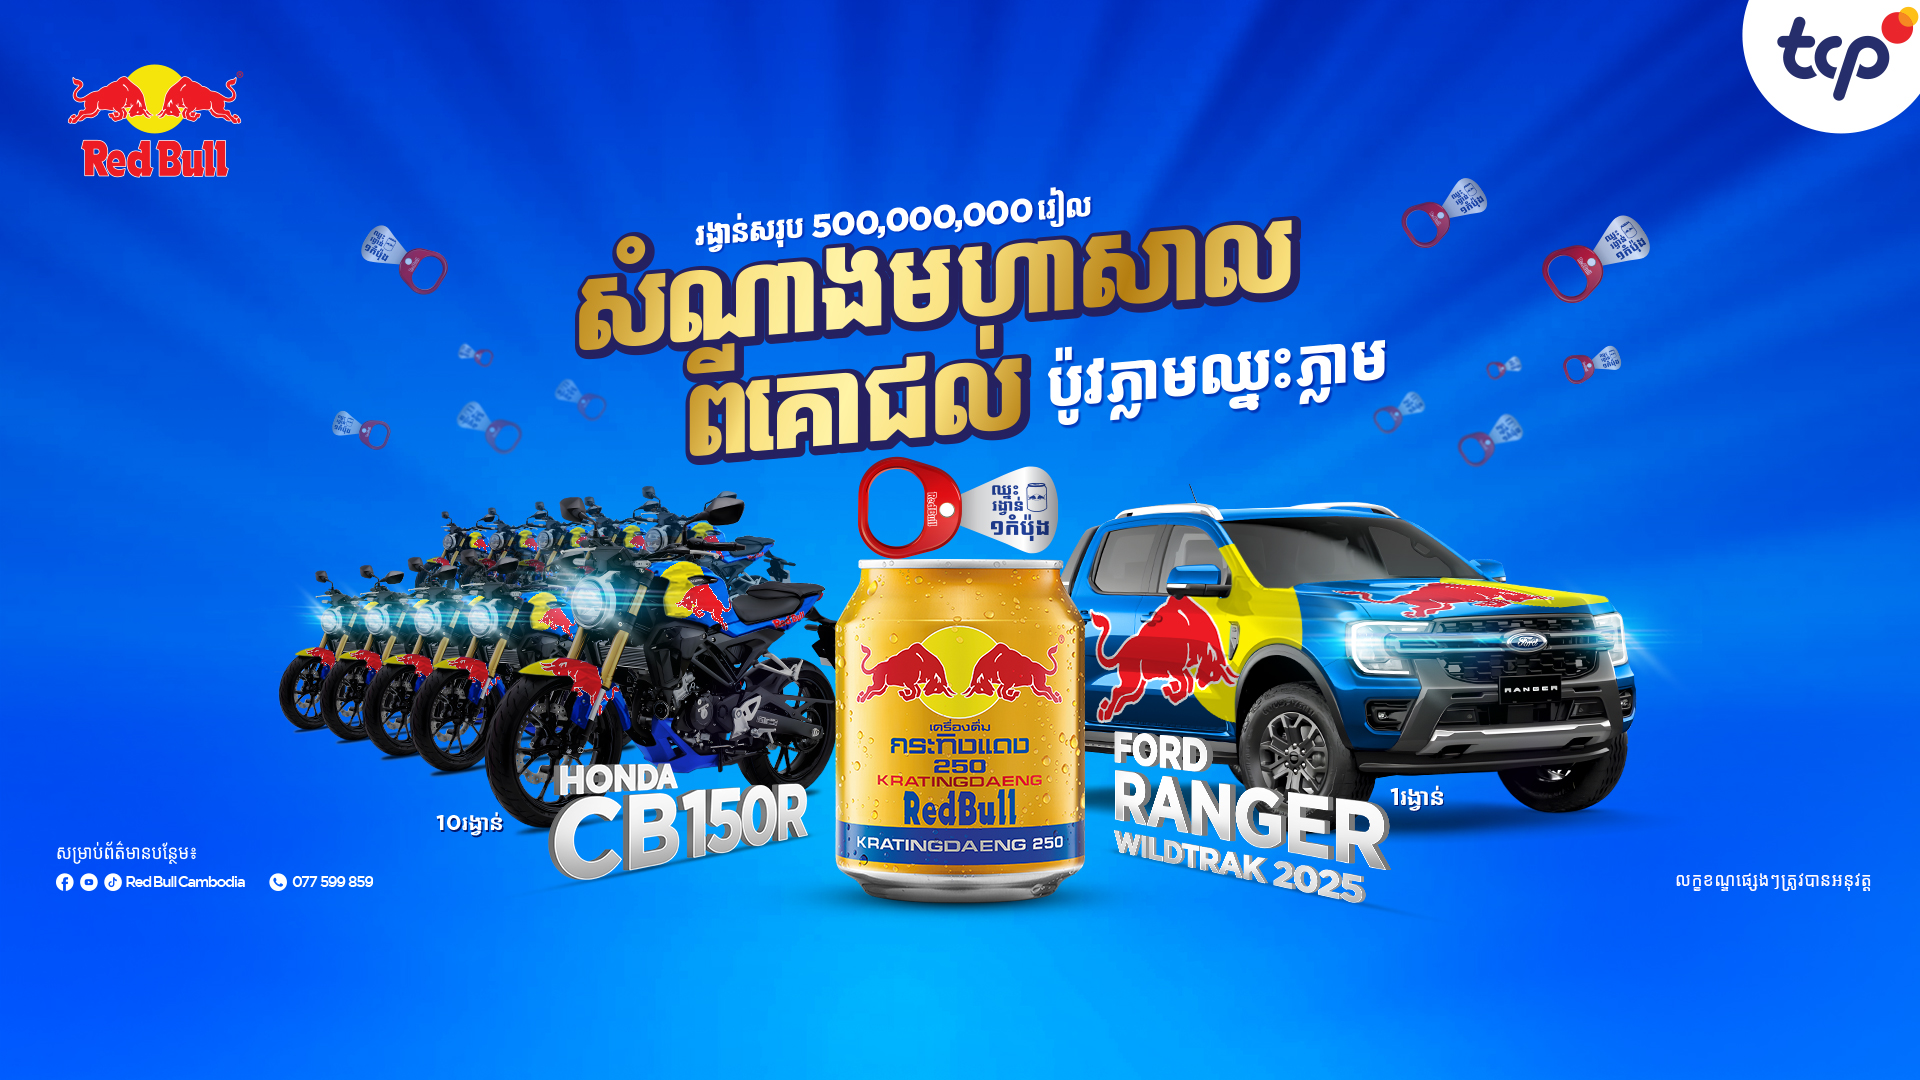
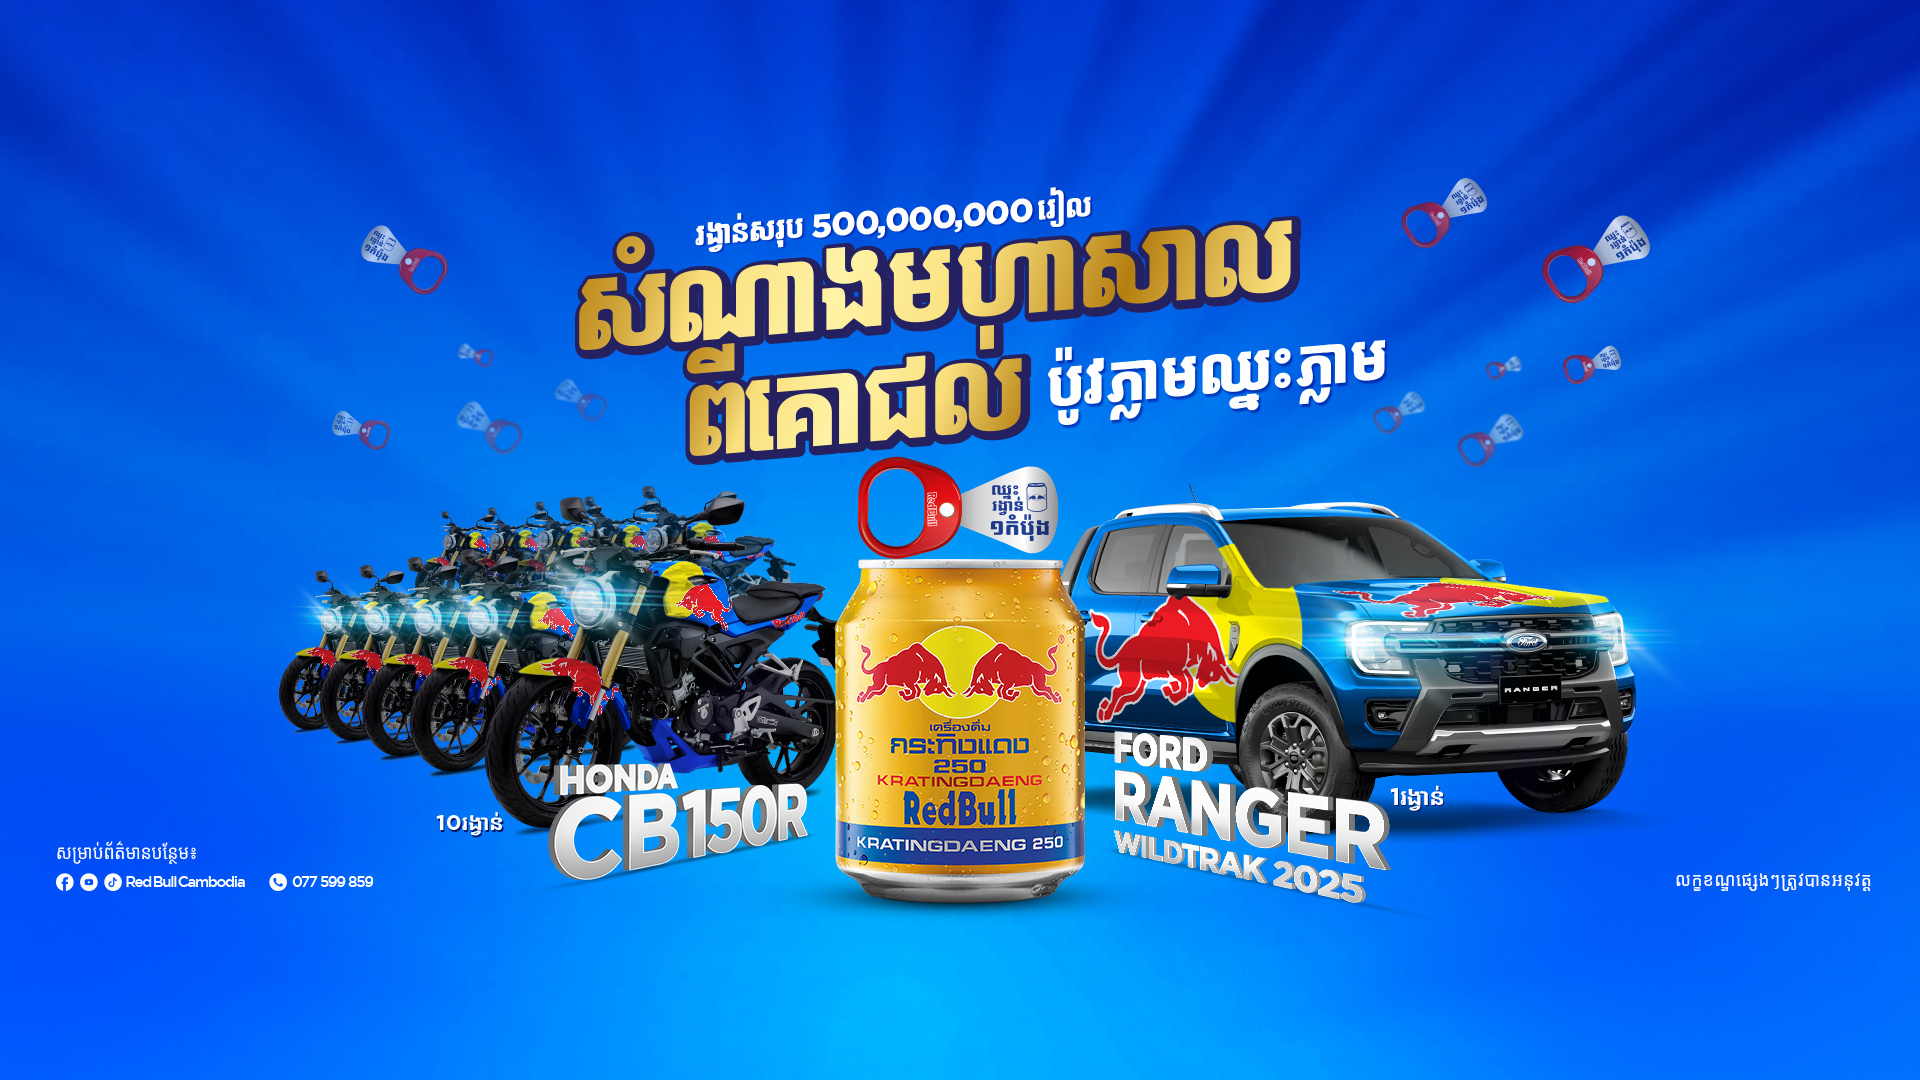
Change background style

Changed region(s): [[0.9062, 0.0, 1.0, 0.1222], [0.0312, 0.0611, 0.125, 0.1833]]

diff --git a/styles.css b/styles.css
@@ -21,6 +21,8 @@ html {
     position: absolute;
 }
 
+
+
 /* FOR big Screen */
 @media all and (min-width: 1280px) {
 
@@ -31,6 +33,19 @@ html {
         background-repeat: no-repeat;
         background-attachment: fixed;
         height: 180vh;
+    }
+
+    .logoRed {
+        left: 4%;
+        top: 2%;
+        position: fixed;
+        width: 10%;
+    }
+
+    .logo {
+        right: 0px;
+        position: fixed;
+        width: 10%;
     }
 
     .cover {
@@ -56,12 +71,25 @@ html {
 @media all and (min-width: 1024px) and (max-width: 1280px) {
 
     .bg {
-        background-image: url('./asset/land_bg.jpg');
+        background-image: url('./asset/no_logo_land.jpg');
         position: relative;
         background-size: 100% auto;
-        background-repeat: round;
+        background-repeat: no-repeat;
         background-attachment: fixed;
-        height: 180vh;
+        height: 185vh;
+    }
+
+    .logoRed {
+        left: 4%;
+        top: 2%;
+        position: fixed;
+        width: 10%;
+    }
+
+    .logo {
+        right: 0px;
+        position: fixed;
+        width: 10%;
     }
 
     .cover {
@@ -89,9 +117,22 @@ html {
         background-image: url('./asset/stand_bg.jpg');
         position: relative;
         background-size: 100% auto;
-        background-repeat: round;
+        background-repeat: no-repeat;
         background-attachment: fixed;
-        height: 200vh;
+        height: 190vh;
+    }
+
+    .logoRed {
+        left: 4%;
+        top: 2%;
+        position: fixed;
+        width: 15%;
+    }
+
+    .logo {
+        right: 0px;
+        position: fixed;
+        width: 15%;
     }
 
     .cover {
@@ -119,11 +160,24 @@ html {
         background-image: url('./asset/stand_bg.jpg');
         position: relative;
         /* background-size: cover; */
-        background-repeat: round;
+        background-repeat: no-repeat;
         height: 190vh;
         width: 100vw;
         background-size: 100% auto;
         background-attachment: fixed;
+    }
+
+    .logoRed {
+        left: 4%;
+        top: 15px;
+        position: fixed;
+        width: 20%;
+    }
+
+    .logo {
+        right: 0px;
+        position: fixed;
+        width: 20%;
     }
 
     .cover {

diff --git a/index.html b/index.html
@@ -18,7 +18,10 @@
 
 <body>
     <div class="bg">
+        <img src="./asset/LogoRedbull.png" alt="logoRed" class="logoRed">
+        <img src="./asset/logo.png" alt="logo" class="logo">
         <div class="blank"> </div>
+
         <div class="cover">
             <h1>AGREEMENT TO TERMS</h1>
             <p>These Terms and Conditions constitute a legally binding agreement made between you, whether
